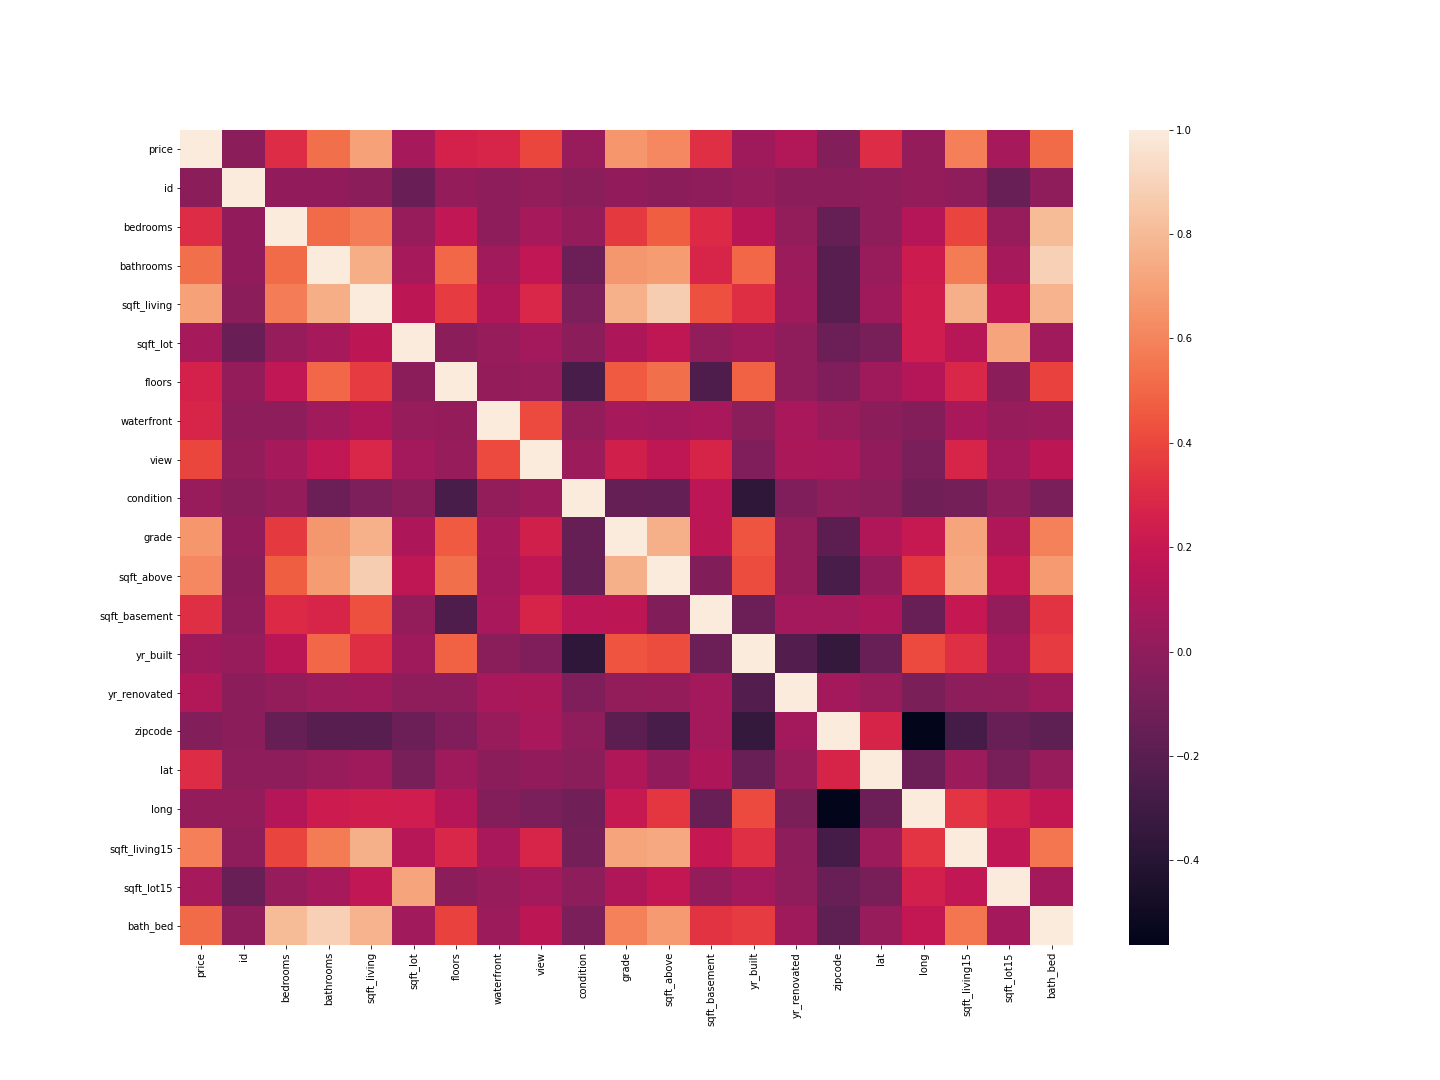
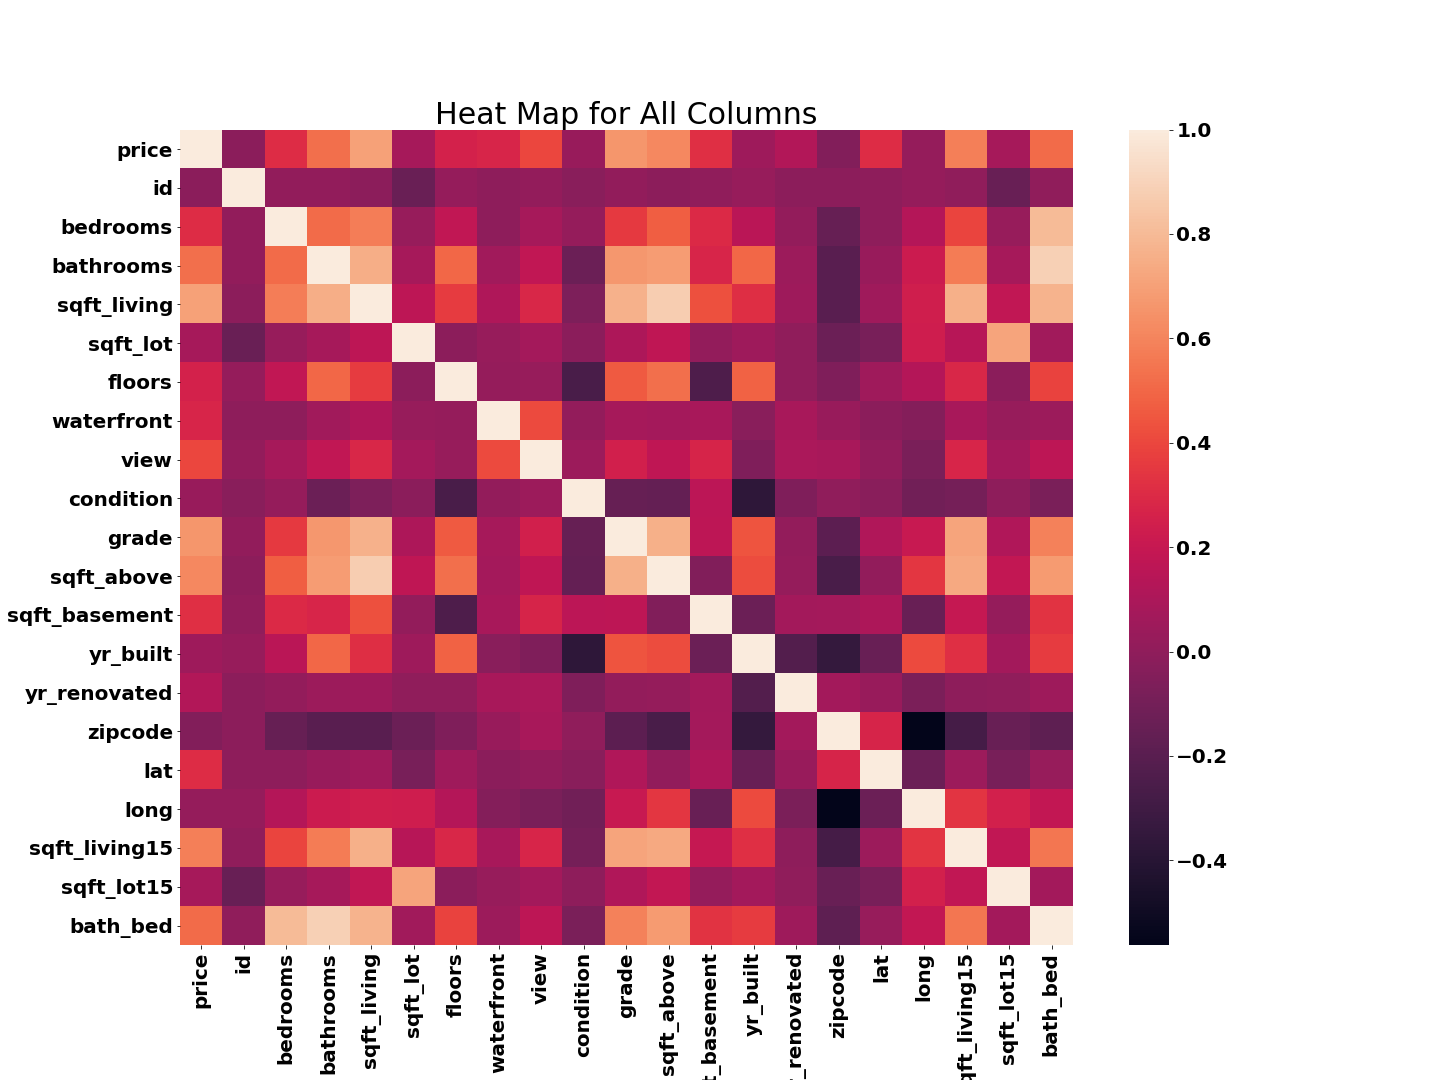
Heat Map Improved

diff --git a/README.md b/README.md
@@ -1,6 +1,6 @@
 ![title_picture](images/seattle.jpg)
 # Seattle Housing Market With Multi-Linear Regression
-**By Yevgeniy Kostrov
+** By Yevgeniy Kostrov
 ***
 Analysis of Seattle Housing Market with Multi-Linear Regression
 # Overview
@@ -27,5 +27,5 @@ The file called ['kc_house_data.csv'](https://github.com/ekostrov/SeattleHouseMu
 ## My first goal was to create linear regression model with one independent variable.
 * I created the correlation matrix and heat map for visualization purpose.
 ![Heat Map](images/heat_map.png)
-* 'sqft_living' has the highest correlation of \( 0.71 \) with the 'price'. 
+* 'sqft_living' has the highest correlation of  $0.71$ with the 'price'. 
 * I build a model fot the 'price' to be predicted by 'sqft_living'
